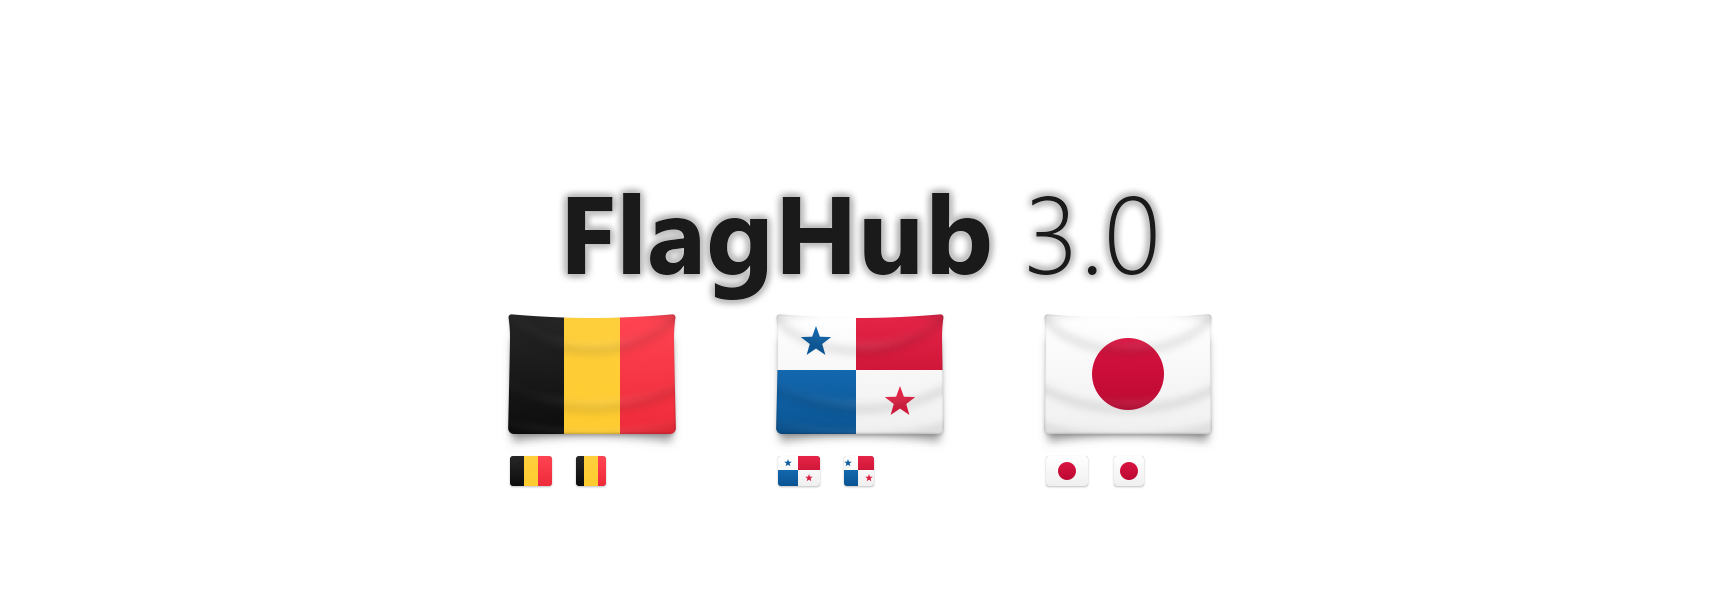
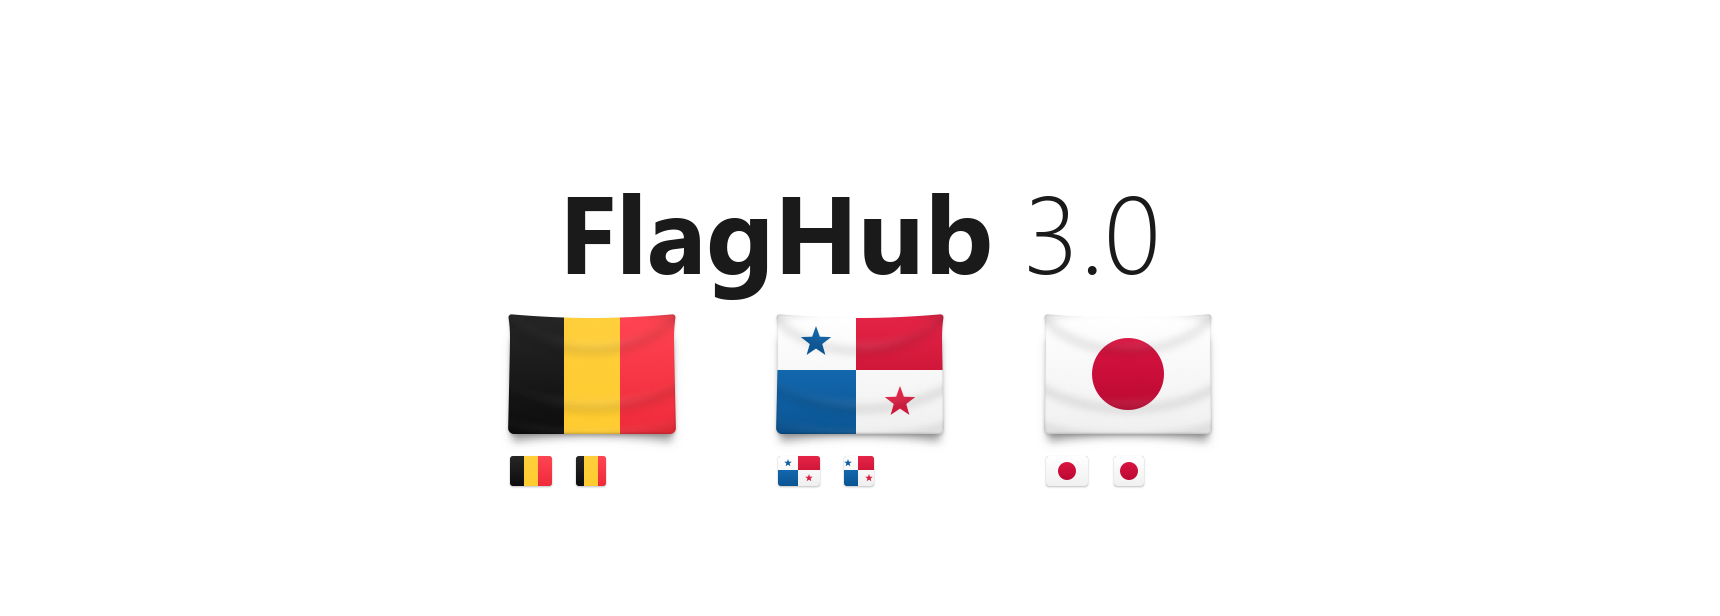
Two-mode header + drop misleading CocoaPods downloads badge
Header now ships as two variants and a <picture> element selects
the right one per color-scheme:

  header.png       dark text  (#1A1A1A) on transparent - for light mode
  header-dark.png  light text (#F5F5F5) on transparent - for dark mode

Each is rendered crisply for its target background, no glow / stroke
needed. The <picture> element falls back to header.png in clients
that don't support prefers-color-scheme media queries (every
markdown renderer, every RSS reader).

Removed the CocoaPods downloads badge:
  shields.io/cocoapods/dt/FlagKit

The badge tracks downloads of the upstream FlagKit pod on the
CocoaPods trunk. FlagHub does NOT publish its own pod - the only
way to consume this fork via CocoaPods is the git-source override
(pod 'FlagKit', :git => 'https://github.com/Alpaq92/FlagHub.git'),
which doesn't go through the trunk and doesn't show up in that
metric. The badge was therefore reporting upstream's success, not
the fork's, which is misleading.

Other badges left in place - they'll resolve once the repo is
pushed to github.com/Alpaq92/FlagHub:
  - 4 GitHub Actions workflow badges (CI / CodeQL / Security /
    Release) - render as grey 'no status' until each workflow has
    run at least once on main
  - Latest release / GitHub downloads / License - shields.io
    against the github.com REST API; show 'no releases' / '0'
    until first v*.*.* tag exists
  - SPM / Carthage / Platforms - static shields, always work

Changed region(s): [[0.3081, 0.3084, 0.6779, 0.4935]]

diff --git a/README.md b/README.md
@@ -1,4 +1,7 @@
-![Header](header.png)
+<picture>
+  <source media="(prefers-color-scheme: dark)" srcset="header-dark.png">
+  <img alt="FlagHub 3.0" src="header.png">
+</picture>
 
 # FlagHub
 
@@ -9,7 +12,6 @@
 
 [![Latest release](https://img.shields.io/github/v/release/Alpaq92/FlagHub?label=release&sort=semver)](https://github.com/Alpaq92/FlagHub/releases/latest)
 [![GitHub release downloads](https://img.shields.io/github/downloads/Alpaq92/FlagHub/total?label=GitHub%20downloads&color=blue)](https://github.com/Alpaq92/FlagHub/releases)
-[![CocoaPods downloads](https://img.shields.io/cocoapods/dt/FlagKit?label=CocoaPods%20downloads&color=blue)](https://cocoapods.org/pods/FlagKit)
 [![SwiftPM compatible](https://img.shields.io/badge/SPM-compatible-brightgreen)](https://swift.org/package-manager)
 [![Carthage compatible](https://img.shields.io/badge/Carthage-compatible-brightgreen)](https://github.com/Carthage/Carthage)
 [![Platforms](https://img.shields.io/badge/platforms-iOS%20%7C%20macOS%20%7C%20tvOS%20%7C%20visionOS-lightgrey)](Package.swift)